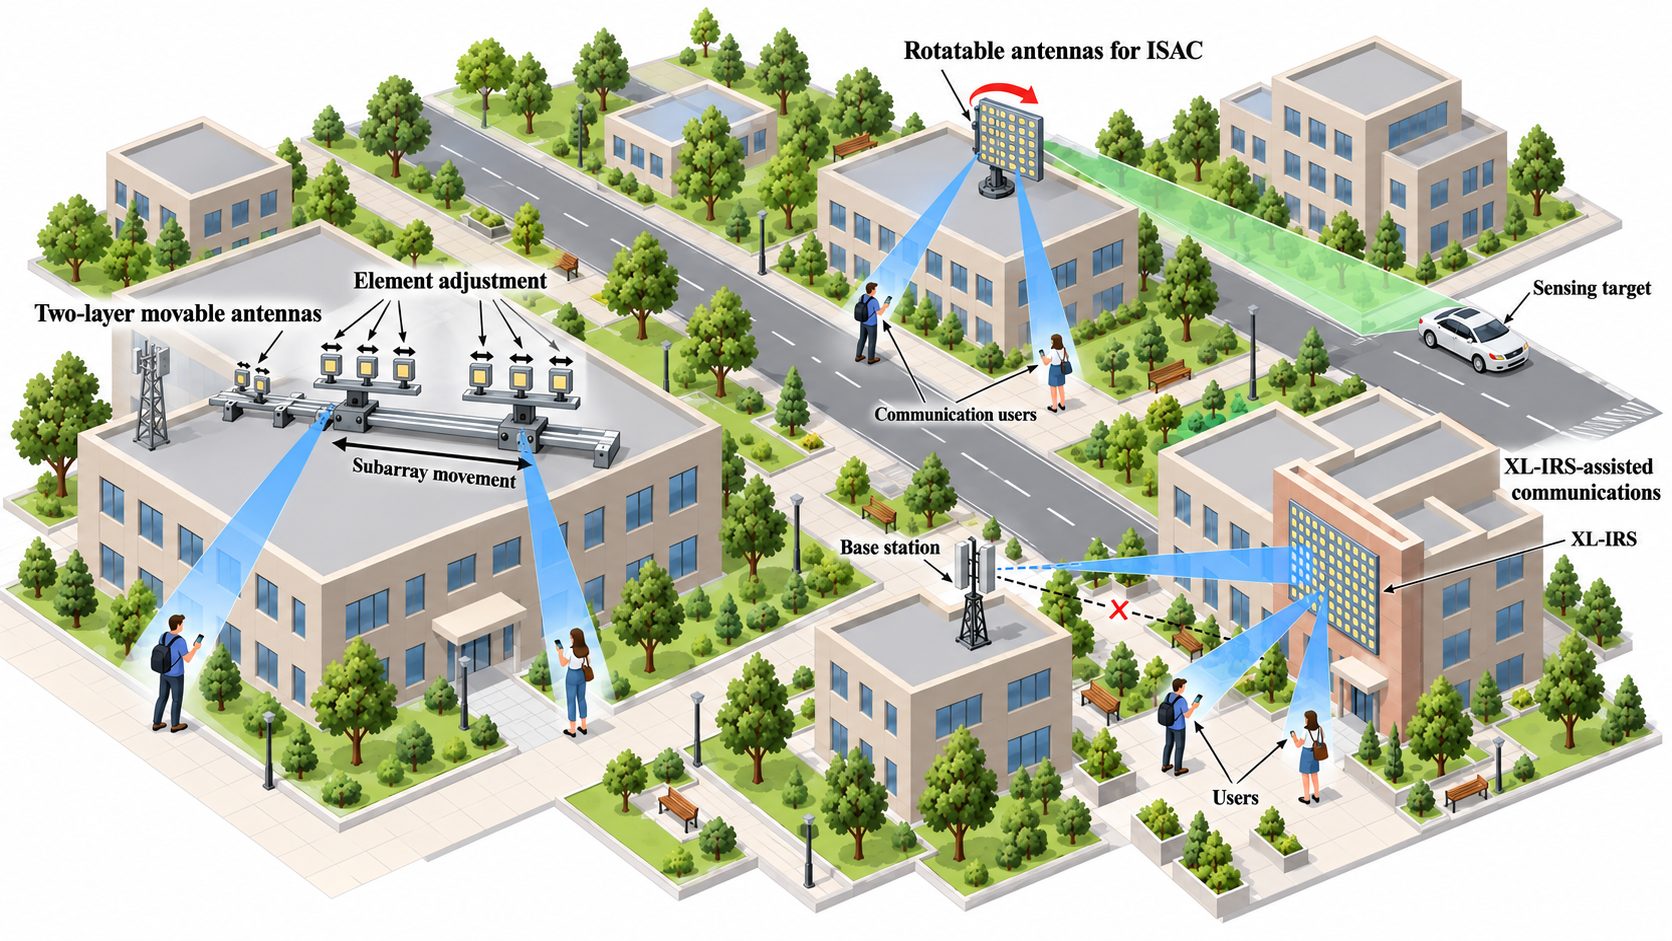
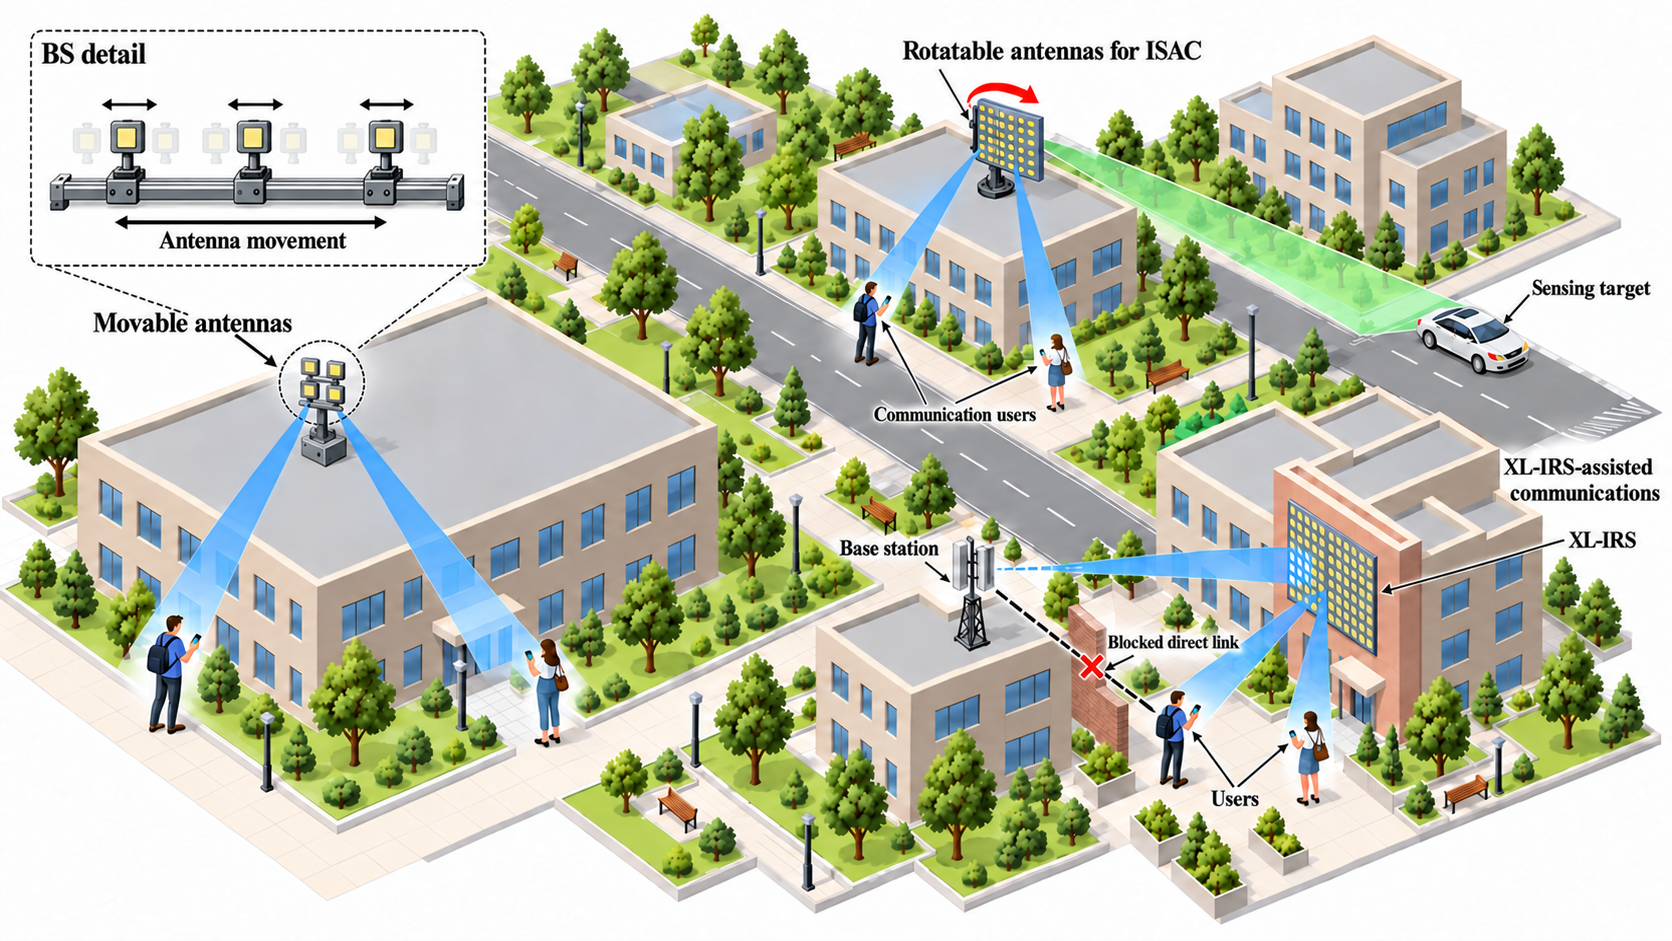
Correct movable antenna scale and blocked direct user link

Changed region(s): [[0.0, 0.0, 0.9952, 0.9862], [0.8397, 0.4315, 0.8708, 0.4623], [0.8086, 0.4623, 0.8397, 0.4931]]

diff --git a/_pages/about.md b/_pages/about.md
@@ -88,10 +88,10 @@ redirect_from:
   <section class="research-topic" aria-labelledby="research-antennas">
     <h3 id="research-antennas">Intelligent Antennas and Surfaces</h3>
     <p>Intelligent antennas and surfaces provide additional ways to configure a wireless channel: antennas can change position or orientation, while an intelligent reflecting surface (IRS) controls the reflected signal. Their configuration and placement affect the communication and sensing links.</p>
-    <p><strong>My focus:</strong> My published work includes <a href="https://doi.org/10.1109/LWC.2025.3580889">joint array-rotation and transmit-beamforming design for integrated sensing and communications</a>, <a href="https://doi.org/10.1109/LWC.2026.3651470">two-layer movable antenna positioning</a> through subarray movement and per-subarray element adjustment, and <a href="https://doi.org/10.1109/ICSIDP62679.2024.10868156">XL-IRS deployment optimization for multi-user communications</a>. The respective design objectives are balancing user sum-rate and target angle estimation, maximizing communication sum-rate, and optimizing surface placement for near-field multi-user transmission.</p>
+    <p><strong>My focus:</strong> My published work includes <a href="https://doi.org/10.1109/LWC.2025.3580889">joint array-rotation and transmit-beamforming design for integrated sensing and communications</a>, <a href="https://doi.org/10.1109/LWC.2026.3651470">movable antenna position optimization</a> with joint antenna-position and receive-beamforming design, and <a href="https://doi.org/10.1109/ICSIDP62679.2024.10868156">XL-IRS deployment optimization for multi-user communications</a>. The respective design objectives are balancing user sum-rate and target angle estimation, maximizing communication sum-rate, and optimizing surface placement for near-field multi-user transmission.</p>
     <figure class="research-figure">
-      <a class="research-image-link image-popup" href="/images/research/intelligent-antennas-en.png?v=20261009-unified" aria-label="Enlarge intelligent antennas illustration">
-        <img src="/images/research/intelligent-antennas-en.png?v=20261009-unified" width="1672" height="941" loading="lazy" decoding="async" alt="One continuous white-background campus scene with connected roads and walkways, containing local installations for two-layer movable antennas, rotatable-antenna ISAC and XL-IRS-assisted multi-user communications.">
+      <a class="research-image-link image-popup" href="/images/research/intelligent-antennas-en.png?v=20261009-movable-bs" aria-label="Enlarge intelligent antennas illustration">
+        <img src="/images/research/intelligent-antennas-en.png?v=20261009-movable-bs" width="1672" height="941" loading="lazy" decoding="async" alt="One continuous white-background campus scene with a compact movable-antenna base station and enlarged movement detail, rotatable-antenna ISAC, and XL-IRS-assisted communications with a direct BS-to-user path obstructed by a brick wall.">
       </a>
     </figure>
   </section>
